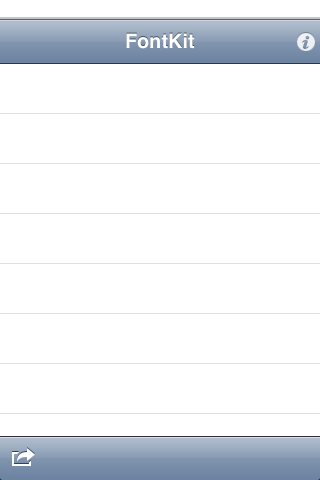
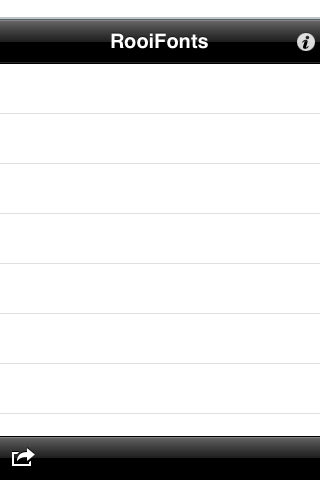
Changed the name of the executable from FontKit to RooiFonts

Changed region(s): [[0.0, 0.0312, 1.0, 0.1562], [0.0, 0.9062, 1.0, 1.0]]

diff --git a/Classes/Controllers/MainController.m b/Classes/Controllers/MainController.m
@@ -1,6 +1,6 @@
 //
 //  MainController.m
-//  FontKit
+//  RooiFonts
 //
 //  Created by Adrian on 6/22/09.
 //  Copyright 2009 akosma software. All rights reserved.
@@ -27,7 +27,9 @@
     if (self = [super init])
     {
         controller = [[UINavigationController alloc] initWithRootViewController:self];
+        controller.navigationBar.barStyle = UIBarStyleBlackOpaque;
         controller.toolbarHidden = NO;
+        controller.toolbar.barStyle = UIBarStyleBlackOpaque;
         
         self.delegate = self;
         

diff --git a/Classes/Controllers/FontsController.m b/Classes/Controllers/FontsController.m
@@ -1,6 +1,6 @@
 //
 //  FontsController.m
-//  FontKit
+//  RooiFonts
 //
 //  Created by Adrian on 11/12/08.
 //  Copyright 2009 akosma software. All rights reserved.
@@ -25,7 +25,7 @@
     if (self = [super initWithStyle:UITableViewStylePlain])
     {
         self.tableView.rowHeight = 50;
-        self.title = @"FontKit";
+        self.title = @"RooiFonts";
     }
     return self;
 }

diff --git a/Classes/Controllers/AboutController.m b/Classes/Controllers/AboutController.m
@@ -17,7 +17,7 @@
 {
     if (self = [super initWithNibName:@"About" bundle:nil]) 
     {
-        NSString *titleText = NSLocalizedString(@"About FontKit", @"Title of the about screen");
+        NSString *titleText = NSLocalizedString(@"About RooiFonts", @"Title of the about screen");
         self.title = titleText;
         self.hidesBottomBarWhenPushed = YES;
     }

diff --git a/Classes/Controllers/ComparisonDetailController.h b/Classes/Controllers/ComparisonDetailController.h
@@ -1,6 +1,6 @@
 //
 //  ComparisonDetailController.h
-//  FontKit
+//  RooiFonts
 //
 //  Created by Adrian on 6/22/09.
 //  Copyright 2009 akosma software. All rights reserved.

diff --git a/Classes/Controllers/ComparisonDetailController.m b/Classes/Controllers/ComparisonDetailController.m
@@ -1,6 +1,6 @@
 //
 //  ComparisonDetailController.m
-//  FontKit
+//  RooiFonts
 //
 //  Created by Adrian on 6/22/09.
 //  Copyright 2009 akosma software. All rights reserved.

diff --git a/Classes/Controllers/ComparisonPromptController.h b/Classes/Controllers/ComparisonPromptController.h
@@ -1,6 +1,6 @@
 //
 //  ComparisonPromptController.h
-//  FontKit
+//  RooiFonts
 //
 //  Created by Adrian on 6/22/09.
 //  Copyright 2009 akosma software. All rights reserved.

diff --git a/Classes/Controllers/ComparisonPromptController.m b/Classes/Controllers/ComparisonPromptController.m
@@ -1,6 +1,6 @@
 //
 //  ComparisonPromptController.m
-//  FontKit
+//  RooiFonts
 //
 //  Created by Adrian on 6/22/09.
 //  Copyright 2009 akosma software. All rights reserved.

diff --git a/Classes/Controllers/FontsControllerDelegate.h b/Classes/Controllers/FontsControllerDelegate.h
@@ -1,6 +1,6 @@
 //
 //  FontsControllerDelegate.h
-//  FontKit
+//  RooiFonts
 //
 //  Created by Adrian on 6/22/09.
 //  Copyright 2009 akosma software. All rights reserved.

diff --git a/Classes/Helpers/NSString+FirstLetters.h b/Classes/Helpers/NSString+FirstLetters.h
@@ -1,6 +1,6 @@
 //
 //  NSString+FirstLetters.h
-//  FontKit
+//  RooiFonts
 //
 //  Created by Adrian on 11/12/08.
 //  Copyright 2009 akosma software. All rights reserved.

diff --git a/Classes/Helpers/NSString+FirstLetters.m b/Classes/Helpers/NSString+FirstLetters.m
@@ -1,6 +1,6 @@
 //
 //  NSString+FirstLetters.m
-//  FontKit
+//  RooiFonts
 //
 //  Created by Adrian on 11/12/08.
 //  Copyright 2009 akosma software. All rights reserved.

diff --git a/Classes/Helpers/SizeControllerDelegate.h b/Classes/Helpers/SizeControllerDelegate.h
@@ -1,6 +1,6 @@
 //
 //  SizeControllerDelegate.h
-//  FontKit
+//  RooiFonts
 //
 //  Created by Adrian on 6/22/09.
 //  Copyright 2009 akosma software. All rights reserved.

diff --git a/Classes/Controllers/FontDetailController.h b/Classes/Controllers/FontDetailController.h
@@ -1,6 +1,6 @@
 //
 //  FontDetailController.h
-//  FontKit
+//  RooiFonts
 //
 //  Created by Adrian on 11/12/08.
 //  Copyright 2009 akosma software. All rights reserved.
